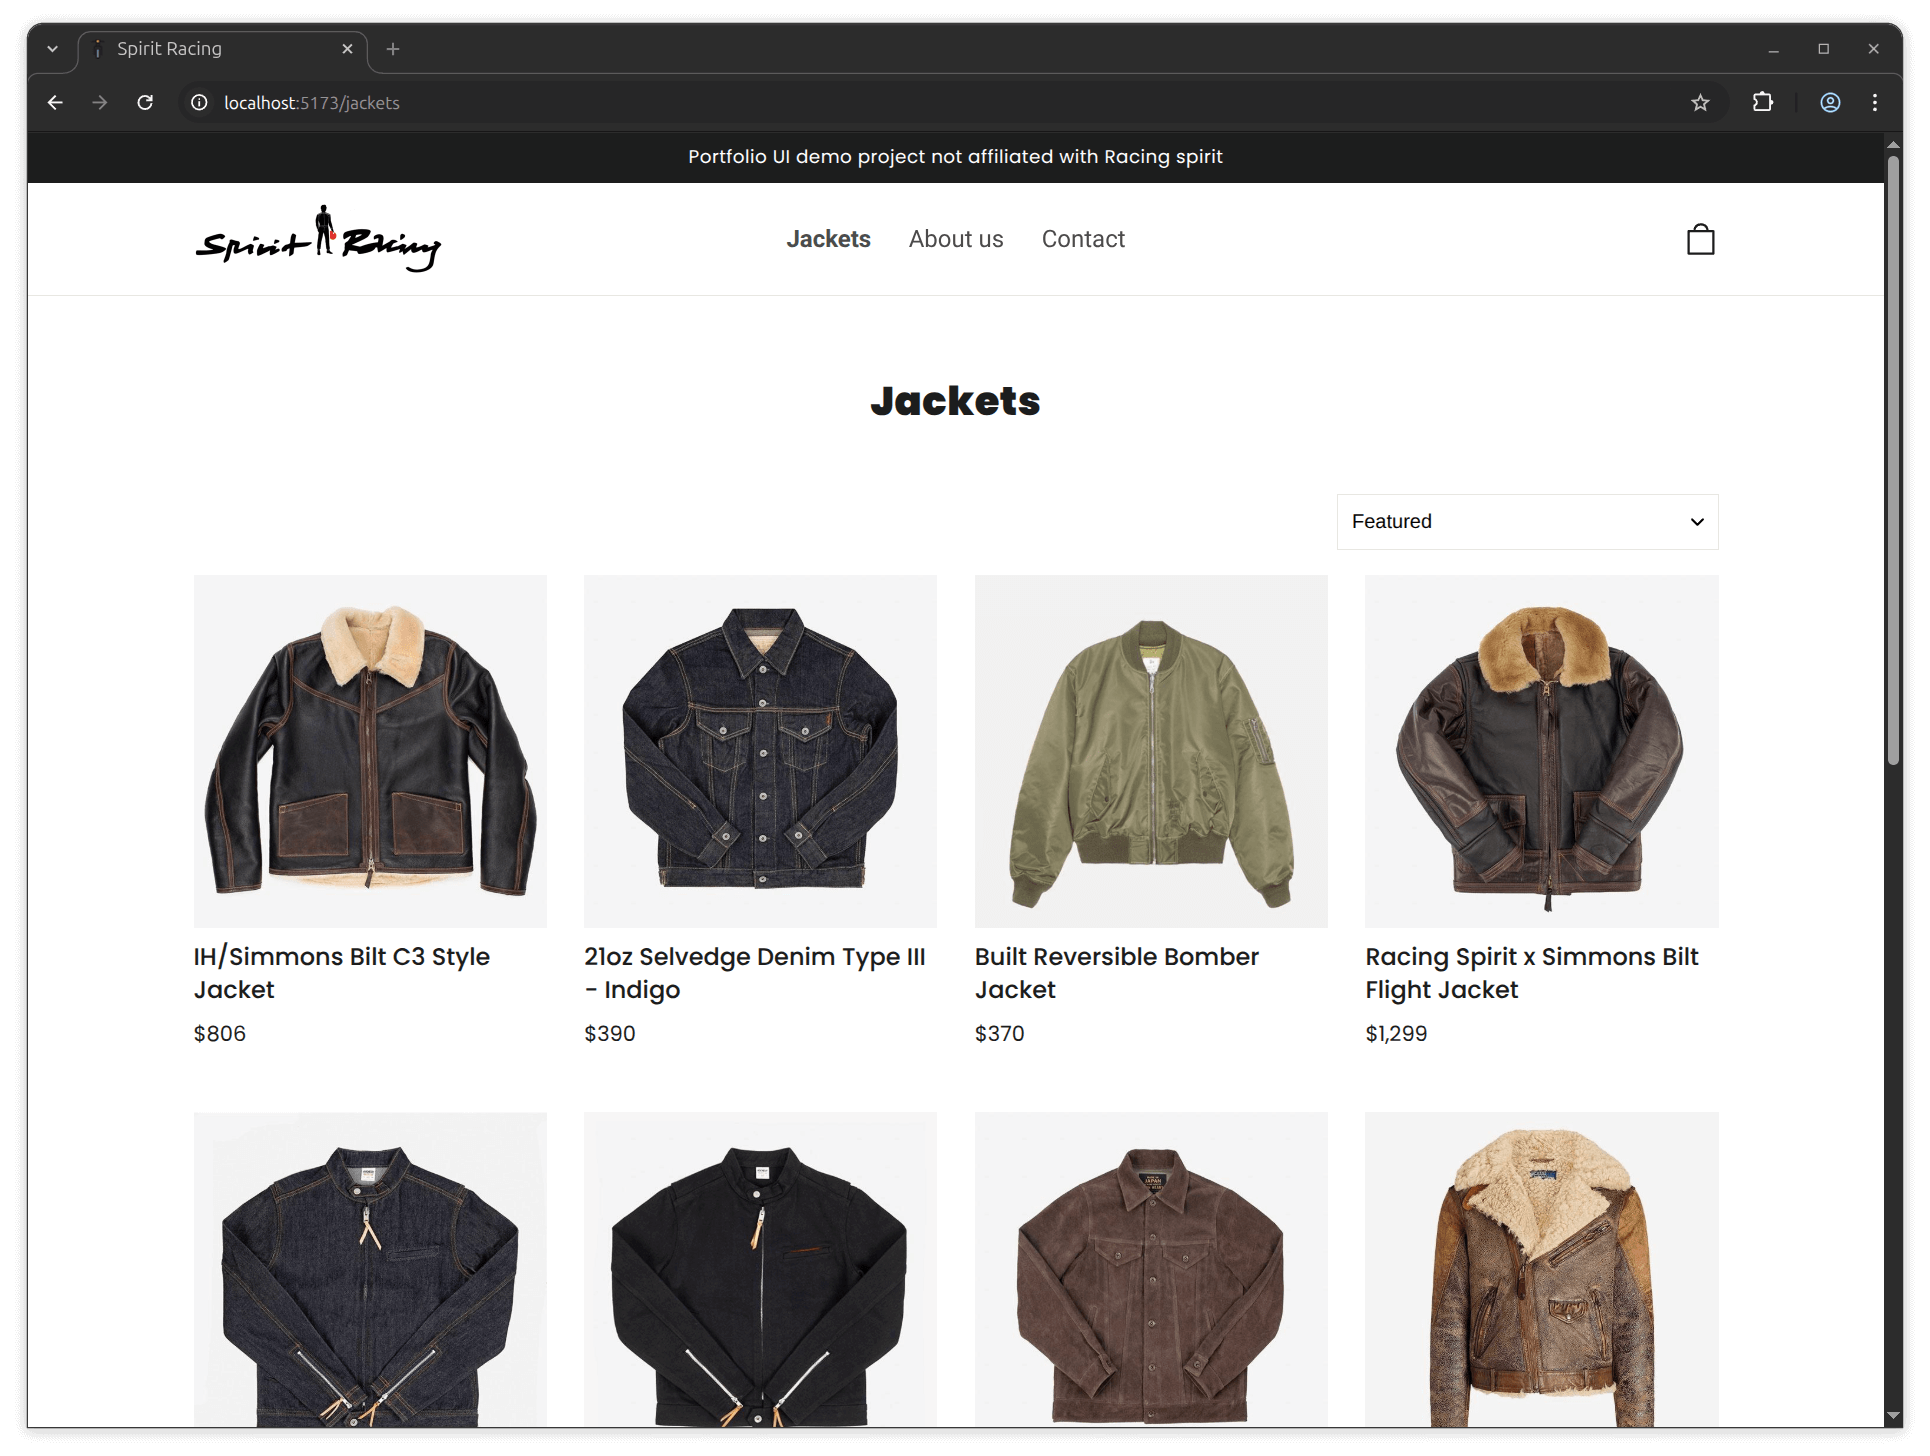
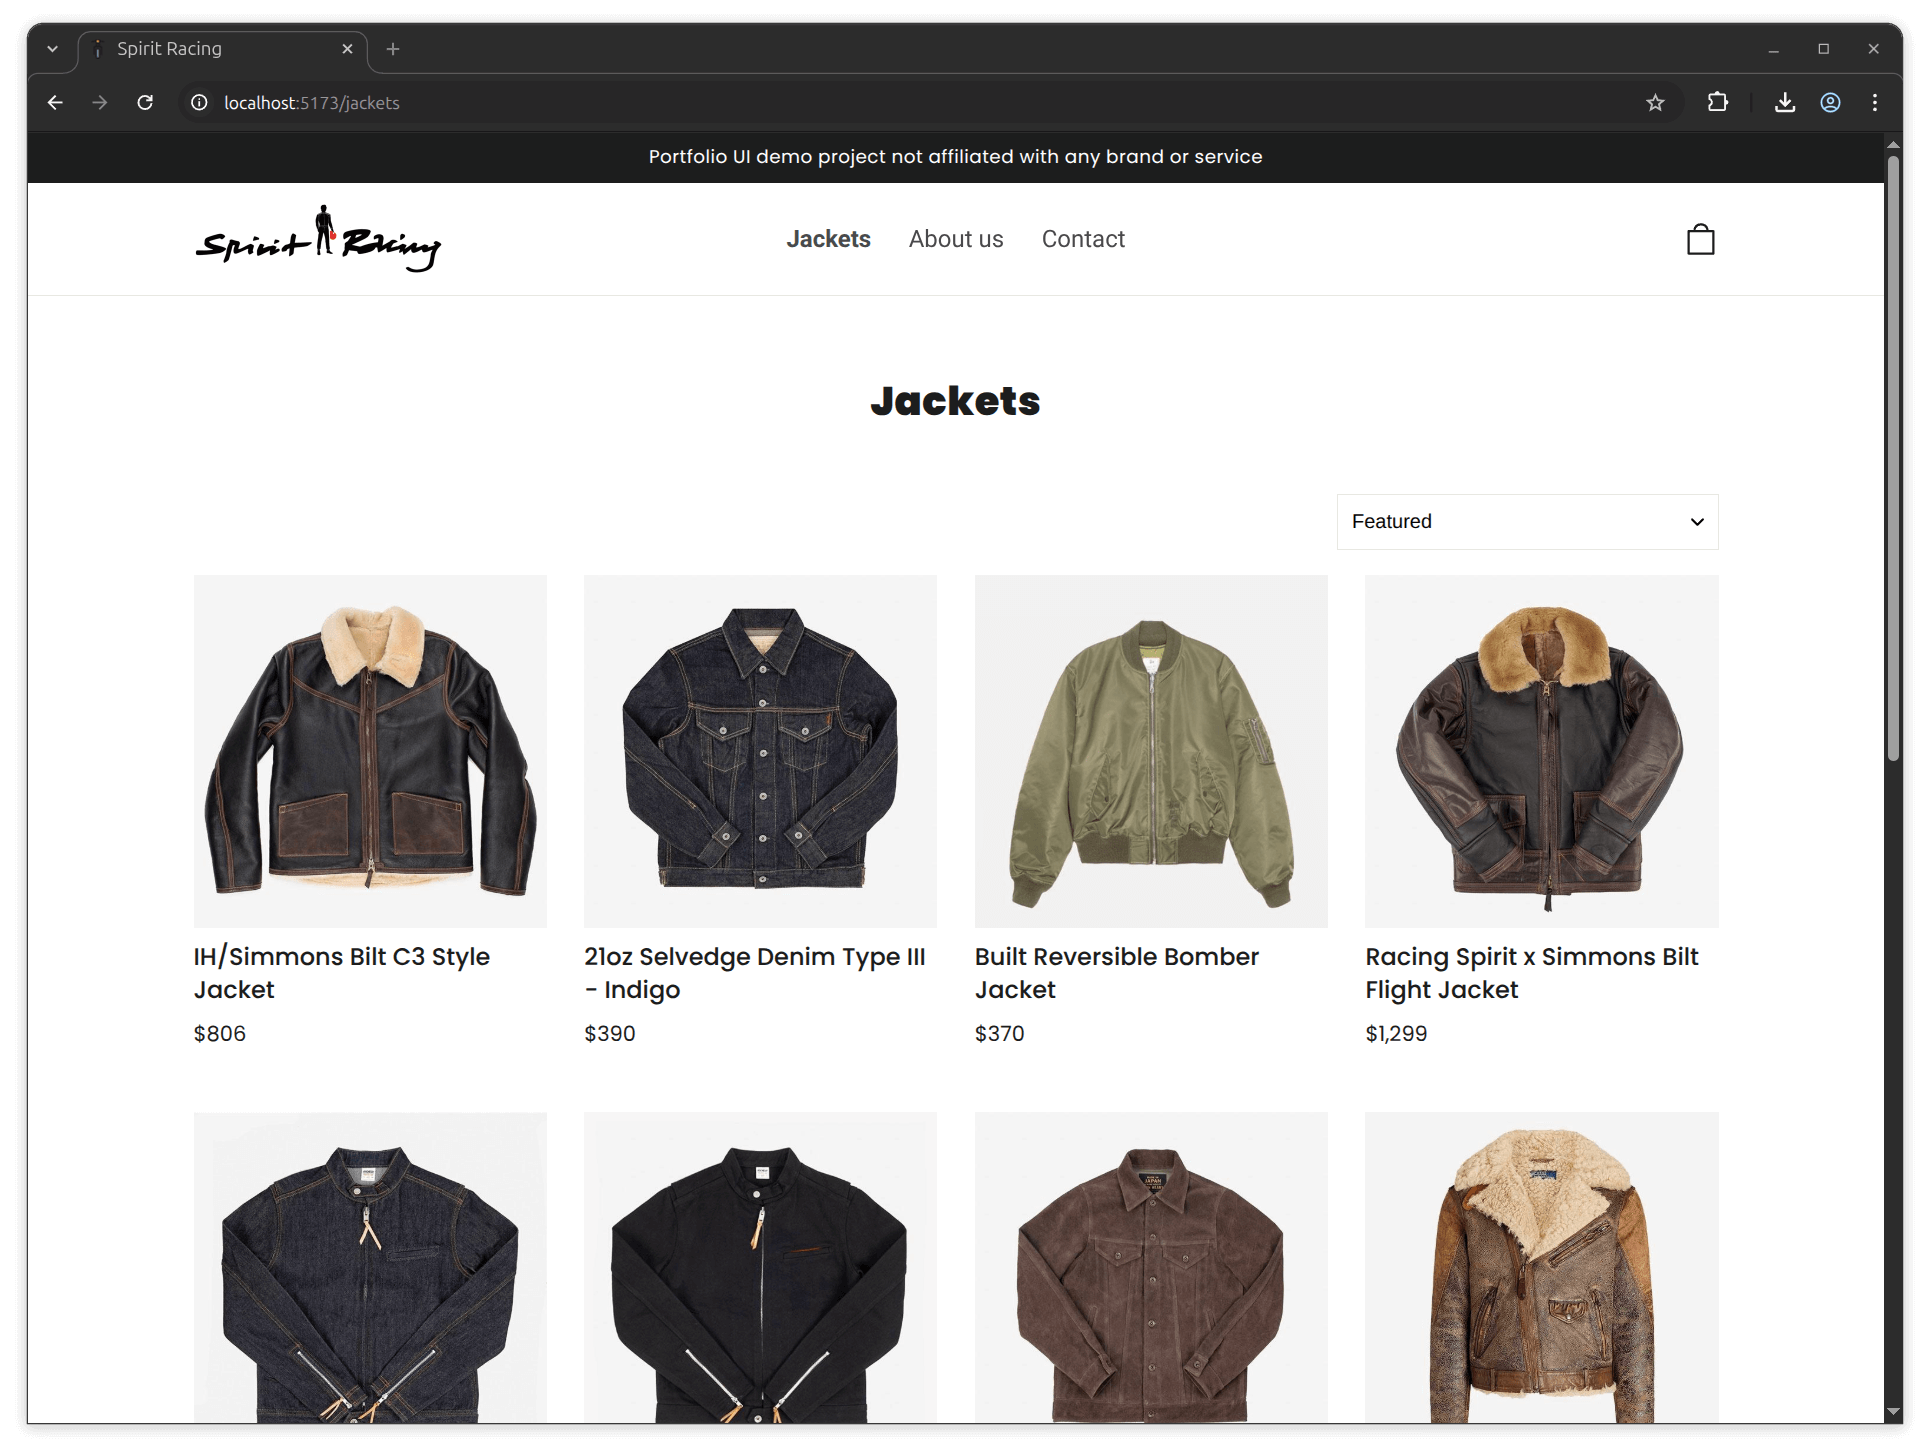
chore: update disclaimer and screenshots

diff --git a/src/layouts/Footer/Footer.jsx b/src/layouts/Footer/Footer.jsx
@@ -19,7 +19,9 @@ const Footer = () => {
         </div>
         <div className="footer-copyright">
           <PaymentsList />
-          <small>This is a portfolio UI demo project and is not affiliated with Racing spirit</small>
+          <div className="footer-copyright__disclaimer-container">
+            <small>Portfolio UI demo project. All logos, brands, and designs are the property of their respective owners. This project is not affiliated with or endorsed by any brand or service.</small>
+          </div>
         </div>
       </div>
     </footer>

diff --git a/src/layouts/Navbar/Navbar.jsx b/src/layouts/Navbar/Navbar.jsx
@@ -7,7 +7,7 @@ const Navbar = () => {
   return ( 
     <>
       <div className="announcement">
-        <p className="announcement__text">Portfolio UI demo project not affiliated with Racing spirit</p>
+        <p className="announcement__text">Portfolio UI demo project not affiliated with any brand or service</p>
       </div>
       <header className="header-nav">
         <nav className="nav-menu">

diff --git a/src/styles/footer.css b/src/styles/footer.css
@@ -130,6 +130,11 @@ footer h2 {
   text-align: center;
 }
 
+.footer-copyright__disclaimer-container {
+  margin: 0 auto;
+  max-width: 800px;
+}
+
 .list-payments {
   display: flex;
   gap: 8px;
